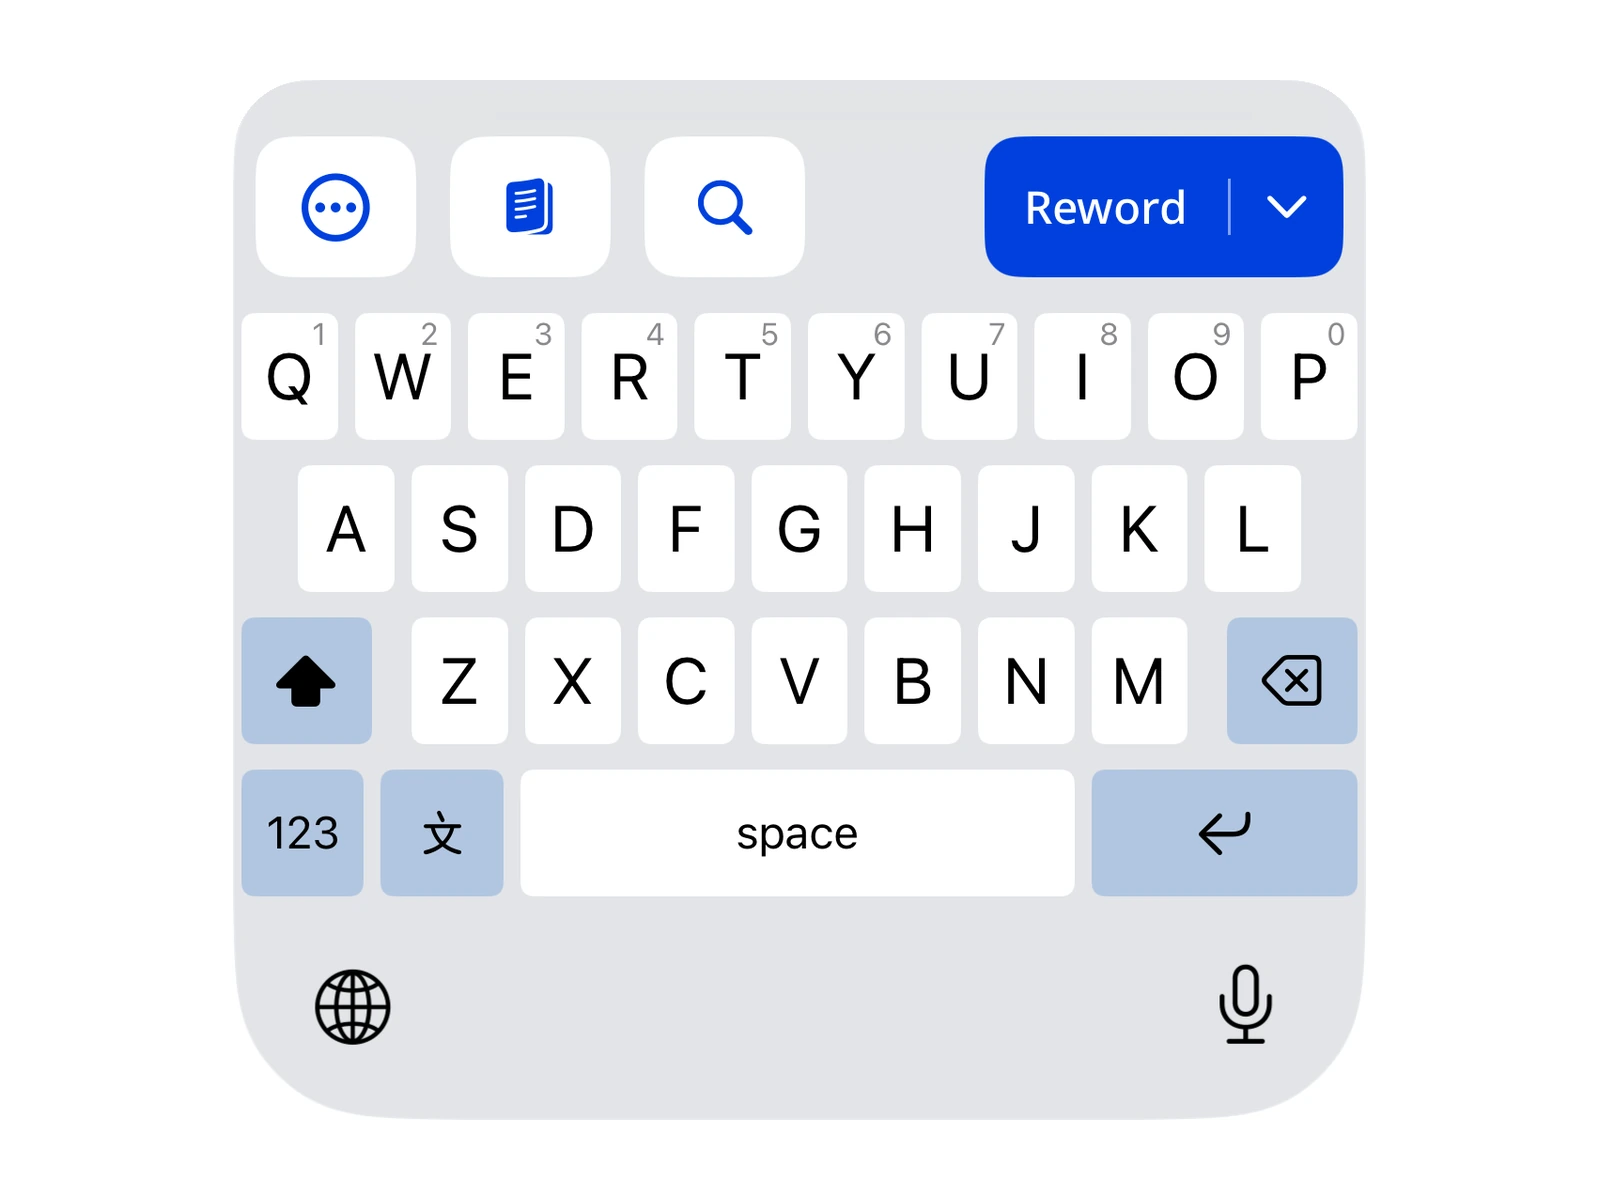
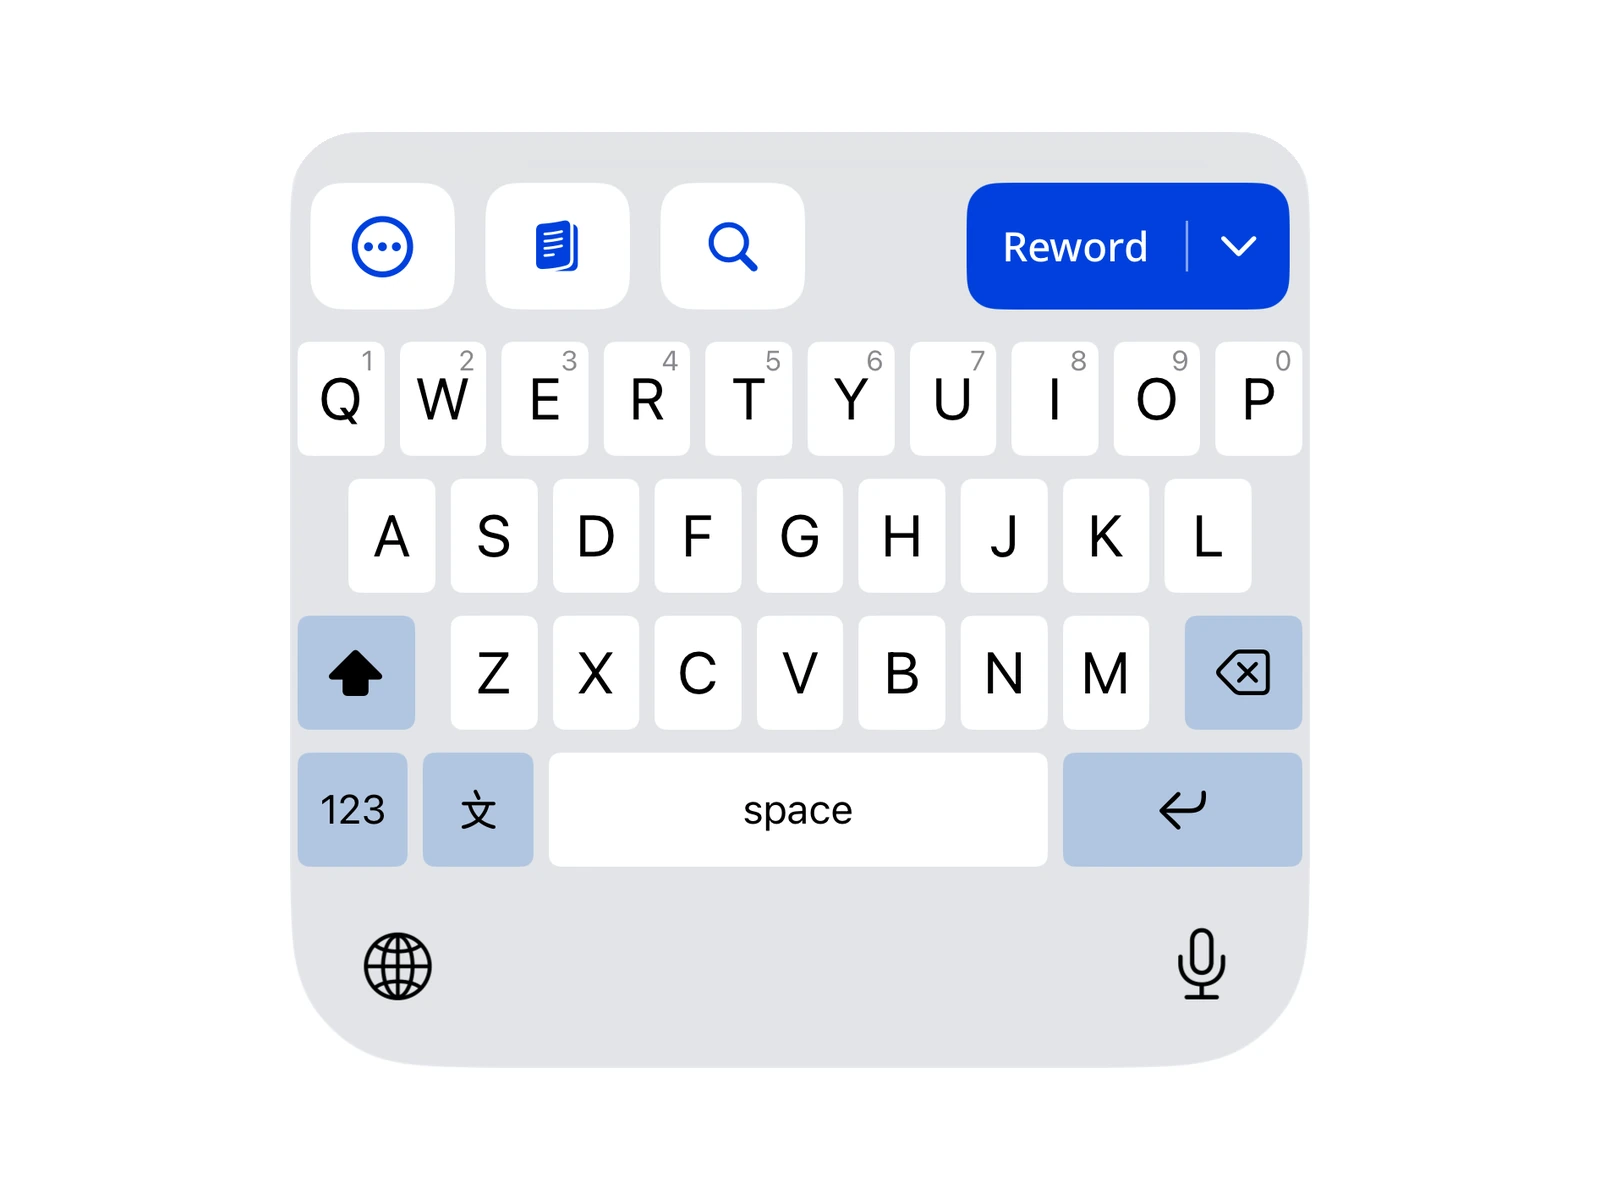
Scale the Arcatext card's keyboard down by 10%
1133x1040 to 1020x936 inside the same 1600x1200 field, so the keyboard
sits with more air around it and the card reads less full.

The tool now takes the keyboard's share of the card height as its one
number and derives the margin from it, rather than the reverse -- the
centring then takes care of itself and resizing is a single edit. The
margin this leaves is 132px against the 60px the 1.1x hover zoom crops,
so the zoom still stops short of the keys.

Claude-Session: https://claude.ai/code/session_013i3hVdanzVV6WPH7y9fYYS

Changed region(s): [[0.125, 0.0617, 0.875, 0.9558]]

diff --git a/tools/work-card-keyboard.py b/tools/work-card-keyboard.py
@@ -24,7 +24,12 @@ OUT = 'public/project-arcatext-keyboard.webp'
 PANEL = (226, 228, 232)
 TOL = 6
 CANVAS = (1600, 1200)          # 4:3, matching the card's image area
-MARGIN_Y = 80                  # 6.7% of height; the hover zoom eats 60
+
+# How much of the card's height the keyboard fills. The margin follows from it
+# rather than the other way round, so resizing the keyboard is one number and
+# the centring takes care of itself. The hover zoom crops 60px off each edge,
+# so the margin this leaves (132px) still keeps the zoom off the keys.
+KEYBOARD_HEIGHT = 0.78
 BG = (255, 255, 255)
 
 
@@ -83,7 +88,7 @@ def main():
     radius = corner_radius(px, top, im.height)
 
     keyboard = im.crop((0, top, im.width, im.height))
-    scale = (CANVAS[1] - 2 * MARGIN_Y) / keyboard.height
+    scale = CANVAS[1] * KEYBOARD_HEIGHT / keyboard.height
     size = (round(keyboard.width * scale), round(keyboard.height * scale))
     keyboard = keyboard.resize(size, Image.LANCZOS)
 
